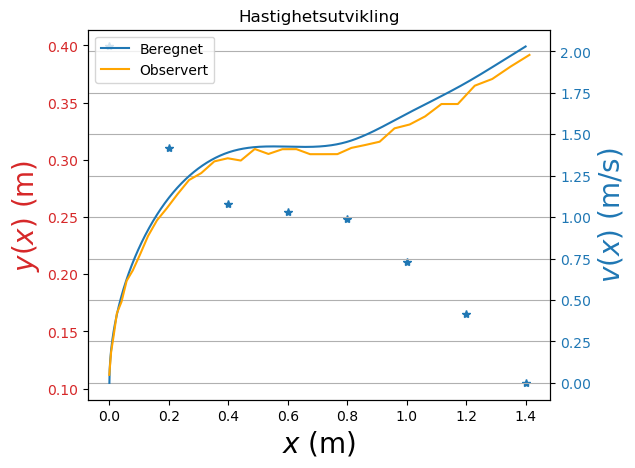
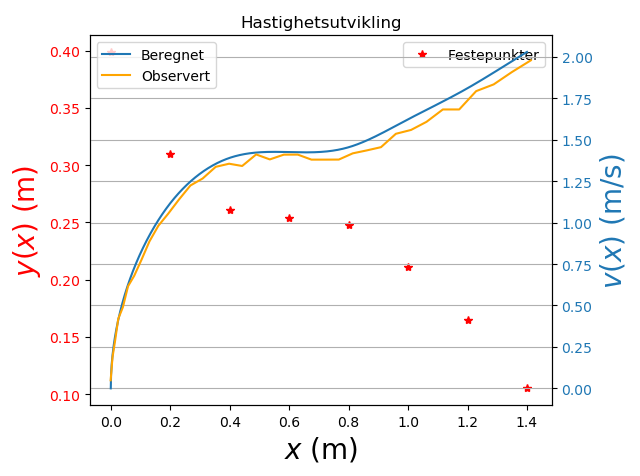
Grafer

Changed region(s): [[0.0, 0.0, 0.9874, 0.8974], [0.4488, 0.9274, 0.5685, 0.9872], [0.7181, 0.6581, 0.748, 0.688]]

diff --git a/cubicspline.py b/cubicspline.py
@@ -15,6 +15,7 @@
 # (2) rulle rent, uten aa gli ("slure").
 
 #Importerer noedvendige biblioteker:
+from typing import List
 from Beregning_av_hastigheter import BeregnHastighet
 import matplotlib.pyplot as plt
 import numpy as np
@@ -54,32 +55,27 @@ dy = cs(x,1)    #dy=tabell med 1401 verdier for y'(x)
 d2y = cs(x,2)   #d2y=tabell med 1401 verdier for y''(x)
 
 
-######################################################################
+# Gjennomsnittlig fart i x retning
+vx_avg = np.zeros(Nx)
+
+# tidsintervaller
+dt = np.zeros(Nx)
+
+# tider
+t = np.zeros(Nx)
+
+
 
 # Helning
+B = np.arctan(dy)
 
-def helning(dx, dy):
-    
-    Theta = np.array([])
-    
-    for i in range(1400):
-        
-        #theta = math.asin(dy[i]/dx)
-        #Theta = np.append(Theta, theta)
-        
-    
-    print("Helningsutvikling")
-    print(Theta)
-    
-    return Theta
+#funk.plotBaneForm(x, B, "Helning", "x(m) (m)", "Grader", "Helning", -0.5, 0.1)
 
-helning(dx, dy)
 
-###################################################################
 
 # Beregning av krumning
 
-def krumning(d2y, dy):
+def krumning(d2y, dy)->List:
     """[summary]
 
     Args:
@@ -93,43 +89,83 @@ def krumning(d2y, dy):
     k = (d2y)/(1+dy**2)**(3/2)
     
     return k
-  
-print("Krumning: ")  
 k = krumning(d2y, dy)
-print(k)
-funk.plotBaneForm(x, k, "Krumning", "x(m) (m)", "k (1/m)", "Krumning", -2, 2)
-
-
-####################################################################
-
-# Fart over tid 
+#funk.plotBaneForm(x, k, "Krumning", "x(m) (m)", "k (1/m)", "Krumning", -2, 2)
 
 
 # Beregnet Hastighetsutvikling
 v = funk.BeregnHastighet(y)
-print("Teoretisk beregnet slutthastighet")
-print(v[-1])
 
+# horisontalFart
+def v_x(v, B):
+    v_x = v * np.cos(B)
+    return v_x
+vx = v_x(v, B)
 
-def v_x(v, theta):
-    return "Hei"
-
-def fartOverTid():
-
-    for i in range(1400):
+# Fart over tid 
+for n in range(1, len(vx)):
+    vx_avg[n] = 0.5*(vx[n] + vx[n-1])
+    dt[n] = (x[n] - x[n-1])/vx_avg[n]
+    t[n] = np.sum(dt[0:n])
         
-        res = (2*dx[i])/(v_x[i-1]+v_x[i])
+
+#funk.plotBaneForm(t, v, "Fart som funksjon av tid", "t (s)", "v(x) (m)", "Fart", -1, 2.5)
 
 
+# Sntripitalakselerasjon
+sentAks = v**2 * k
 
 
+# Normalkraften
+
+g = 9.81
+M = 0.31 #Massen av kula
+
+N = M*(g*np.cos(B) + sentAks)
+
+funk.plotBaneForm(x, N, "Normalkraft", 
+                  "x(m) (m)",
+                  "N (N)", 
+                  "Normalkraften",
+                  2, 4)
 
 
-##########################################################################
+# Friksjon
+f = (2*M*np.sin(B))/7
+
+funk.plotBaneForm(x, f, 
+                  "Friksjon over x akse", 
+                  "$x(m)$ (m)", 
+                  "friksjonskraft (N)", 
+                  "Friksjonskraft", 
+                  -0.05,0.05)
+
+
+#Forhold Normalkraft og friksjonskraft
+funk.plotBaneForm(x, (f/N), "Forhold mellom Friksjon og Normalkraft",
+                  "$x(m)$ (m)", 
+                  "f/N", 
+                  "Forholdstall", 
+                  -0.025,0.01)
 
 # Henter ut Observert data
 t_obs, x_obs, y_obs = funk.HentDataFraFil('./Data/txy_1.txt')
     
+
+
+###########################################################
+
+# Posisjon over t
+posOverT = plt.figure('t (s)',figsize=(12,6))
+plt.plot(t,x, label="Beregnet")
+plt.plot(t_obs, x_obs, label="Observert")
+plt.title('Posisjon over tid')
+plt.xlabel('$t$ (s)',fontsize=20)
+plt.ylabel('$x(m)$ (m)',fontsize=20)
+plt.ylim(0.0,1.5)
+plt.legend()
+plt.grid()
+# plt.show()
 
 
 #########################################################################
@@ -158,10 +194,6 @@ plt.grid()
 ####################################################################
 
 # Hastighetsutvikling uten festepunkter i plot
-
-
-
-
 # Observert Hastighetsutvikling
 #v_obs = BeregnHastighet(y_obs) 
 v_obs = funk.observerteHastigheter(x_obs, y_obs)
@@ -188,25 +220,24 @@ plt.legend()
 # Hastighetsutvikling med festpunkter i plot
 
 fig, ax1 = plt.subplots()
-color="tab:red"
 ax1.set_xlabel("$x$ (m)", fontsize=20)
-ax1.set_ylabel('$y(x)$ (m)', fontsize=20, color=color)
-ax1.plot(xfast, yfast, '*', label="Festepunkter")
-ax1.tick_params(axis='y', labelcolor=color)
+ax1.set_ylabel('$y(x)$ (m)', fontsize=20, color="red")
+ax1.plot(xfast, yfast, '*', label="Festepunkter", color="red")
+ax1.tick_params(axis='y', labelcolor="red")
+ax1.legend()
 
 ax2 = ax1.twinx()
 
-color="tab:blue"
-ax2.set_ylabel("$v(x)$ (m/s)", fontsize=20, color=color)
-ax2.plot(x,v, label="Beregnet", color=color)
+ax2.set_ylabel("$v(x)$ (m/s)", fontsize=20, color="tab:blue")
+ax2.plot(x,v, label="Beregnet", color="tab:blue")
 ax2.plot(x_obs[1:],v_obs, label="Observert", color="orange")
-ax2.tick_params(axis='y', labelcolor=color)
+ax2.tick_params(axis='y', labelcolor="tab:blue")
 
 plt.title("Hastighetsutvikling")
 plt.legend()
 plt.grid()
 fig.tight_layout()
-#plt.show()
+# plt.show()
 
 #fig.savefig("HastighetsutviklingDualAxis.png", bbox_inches="tight")
 

diff --git a/Beregning_av_hastigheter.py b/Beregning_av_hastigheter.py
@@ -53,7 +53,6 @@ def plotBaneForm(x, y, title, xlabel, ylabel, legendLabel, ylabelMin, ylabelMax)
     """
     
     baneform = plt.figure('y(x)',figsize=(12,6))
-    plt.plot(x,y)
     plt.plot(x, y, label=legendLabel)
     plt.title(title)
     plt.xlabel(xlabel, fontsize=20)
